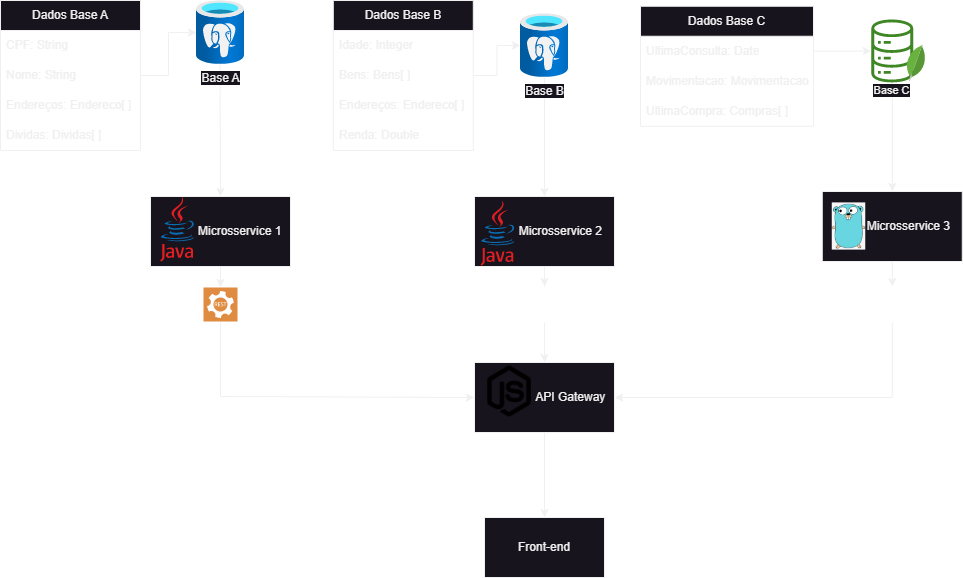
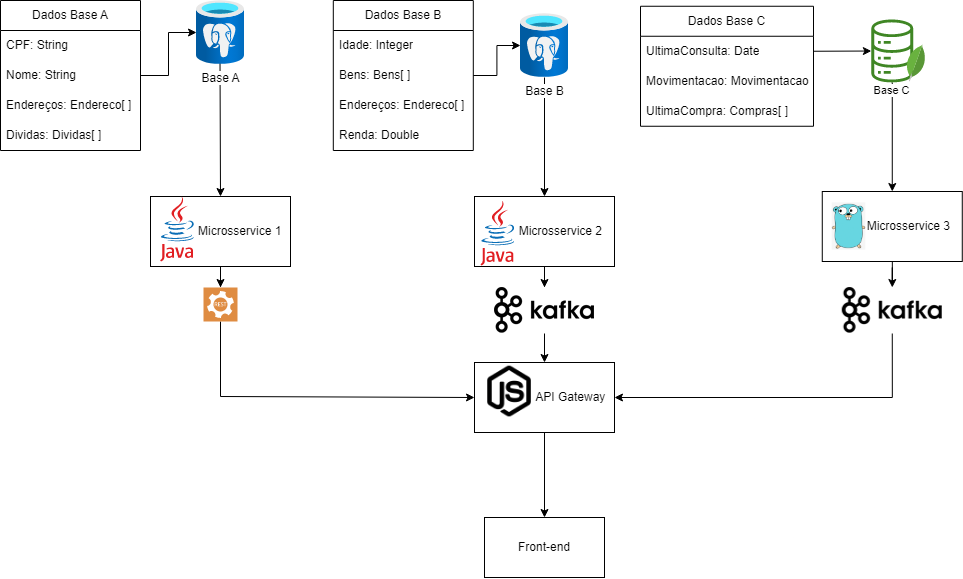
Update Readme.md

diff --git a/README.md b/README.md
@@ -1,2 +1,87 @@
 # desafio-serasa-monorepo
 Desafio Serasa
+
+## O Problema
+
+**Segundo o desafio tinhas o seguinte problema:**
+>**_NOTE:_** 
+"Hoje, a Serasa Experian, como dito anteriormente, é o maior Bureau de crédito do Brasil.
+Aqui trabalhamos constantemente com grande volume e complexidade de dados. Sabendo disso, precisamos que você elabore uma solução que ofereça armazenamento, processamento e disponibilização desses dados, sempre considerando que tudo deve estar conforme as boas práticas de segurança em TI. Afinal, nosso principal ativo são dados sensíveis dos consumidores brasileiros."
+
+O problema supõem que existam 3 bases de dados externas. Base A, B e C.
+
+**A Base "A"** é extremamente sensível e deve ser protegida com os maiores níveis de segurança, mas o acesso a esses dados não precisa ser tão performática.
+
+**Tem os seguintes Dados:**
+
+| Dados            |
+|------------------|
+| CPF              |
+| Nome             |
+| Endereço         |
+| Lista de Dívidas |
+
+---
+
+A Base "B"que também possui dados críticos, mas ao contrário da Base A, o acesso precisa ser um pouco mais rápido.
+
+**Tem os seguintes Dados:**
+
+| Dados            |
+|------------------|
+| Idade            |
+| Fonte de renda   |
+| Endereço         |
+| Lista de Bens    |
+
+---
+
+A Base "C", que não possui nenhum tipo de dado crítico, mas precisa de um acesso extremamente rápido.
+
+
+**Tem os seguintes Dados:**
+
+| Dados            |
+|------------------|
+| Última consulta do CPF em um Bureau de crédito (Serasa e outros).            |
+| Movimentação financeira nesse CPF.   |
+| Dados relacionados a última compra com cartao de crédito vinculado ao CPF    |
+
+---
+
+## Técnologias Utilizadas
+
+<center>
+
+| Linguagens | Bancos de dados | Transferência de Dados |
+|:------------:|:-----------------:|:------------------------:|
+| ![java](./Archives/java_logo.png) ![golang](./Archives/go-logo.png) ![nodeJS](./Archives/nodejs_logo.png) | ![mongodb](./Archives/mongodb-logo.png) ![postgreeSQL](./Archives/PostgreSQL-Logo.png) | ![kafka](./Archives/kafka_logo_100px.png) ![rest-api](/Archives/rest-api-logo.png) |
+
+</center>
+
+<br>
+
+##### Fluxograma da arquitetura de micro-serviços proposta:
+
+![arquitetura-desafio](./Archives/arquitetura-desafio.png)
+
+## Proposta:
+
+Criação de 3 microserviços que faram contato com as bases de dados externas, para o primeiro e segundo micro-serviço segurança é extremamente importante, os dados devem ser criptografados e devem estar protegidos de acessos externos, por isso, utilizei uma API Gateway que será quem fara contato das mesmas, para o primeiro escolhi a transferência de dados via API REST, já que não precisa ter uma grande velocidade da mesma forma recomendaria a utiliziação de um banco de dados PostgreSQL pela robustes e pelo formato dos dados.
+
+Para o segundo microserviço, que exige criptografia dos dados, porém o mesmo precisa ser acessado rapidamente por isso utilizei transferencia de dados via kafka para uma maior velocidade, e também recomendaria a utiliziação de um banco de dados PostgreeSQL pelos mesmos motivos do primeiro micro-serviço.
+
+Para o terceiro é necessário uma transferencia de dados muito rápida, para o rápido acesso a base de dados, escolhi um banco de documentos, neste caso MongoDB, e a transferência via kafka.
+
+A Api Gateway acessa os dados e disponibiliza para quem precise acessar, descrito na imagem como exemplo um front-end.
+
+### O que foi feito?
+Por conta do tempo, não terminei totalmente os micro-serviços, para os serviços que precisavam de criptografia, acabei implementando uma criptografia e deixei eles sendo acessados sem a mesma. O terceiro micro-serviço proposto em golang também não foi concluído, sendo assim, fiz os microsserviços A e B, acessando dados mockados com suas respectivas transferências de dados (rest e kafka), em ambos os micro-serviços utilizei a arquitetura Hexagonal, pois me permitiria conectar qualquer tipo de banco de dados, ou até mesmo uma acesso remoto via api, kafka, etc com maior facilidade e me permitindo separar a transferência de dados da regra de négocio (application).
+
+O docker-compose sobe as aplicações com o kafka e é possível acessar os dados via API do node, a disponibilização dos dados transferidos pelo kafka são logados na API Gateway, pois não encontrei uma maneira de transferir-las para o endpoint da API Gateway.
+
+## Agradecimentos
+
+Gostaria de agradecer ao SerasaExperian pelo desafio apesar de não eu conseguir completar-lo por conta da dificuldade e do tempo, porém creio que consegui demonstrar algum conhecimento.
+
+
